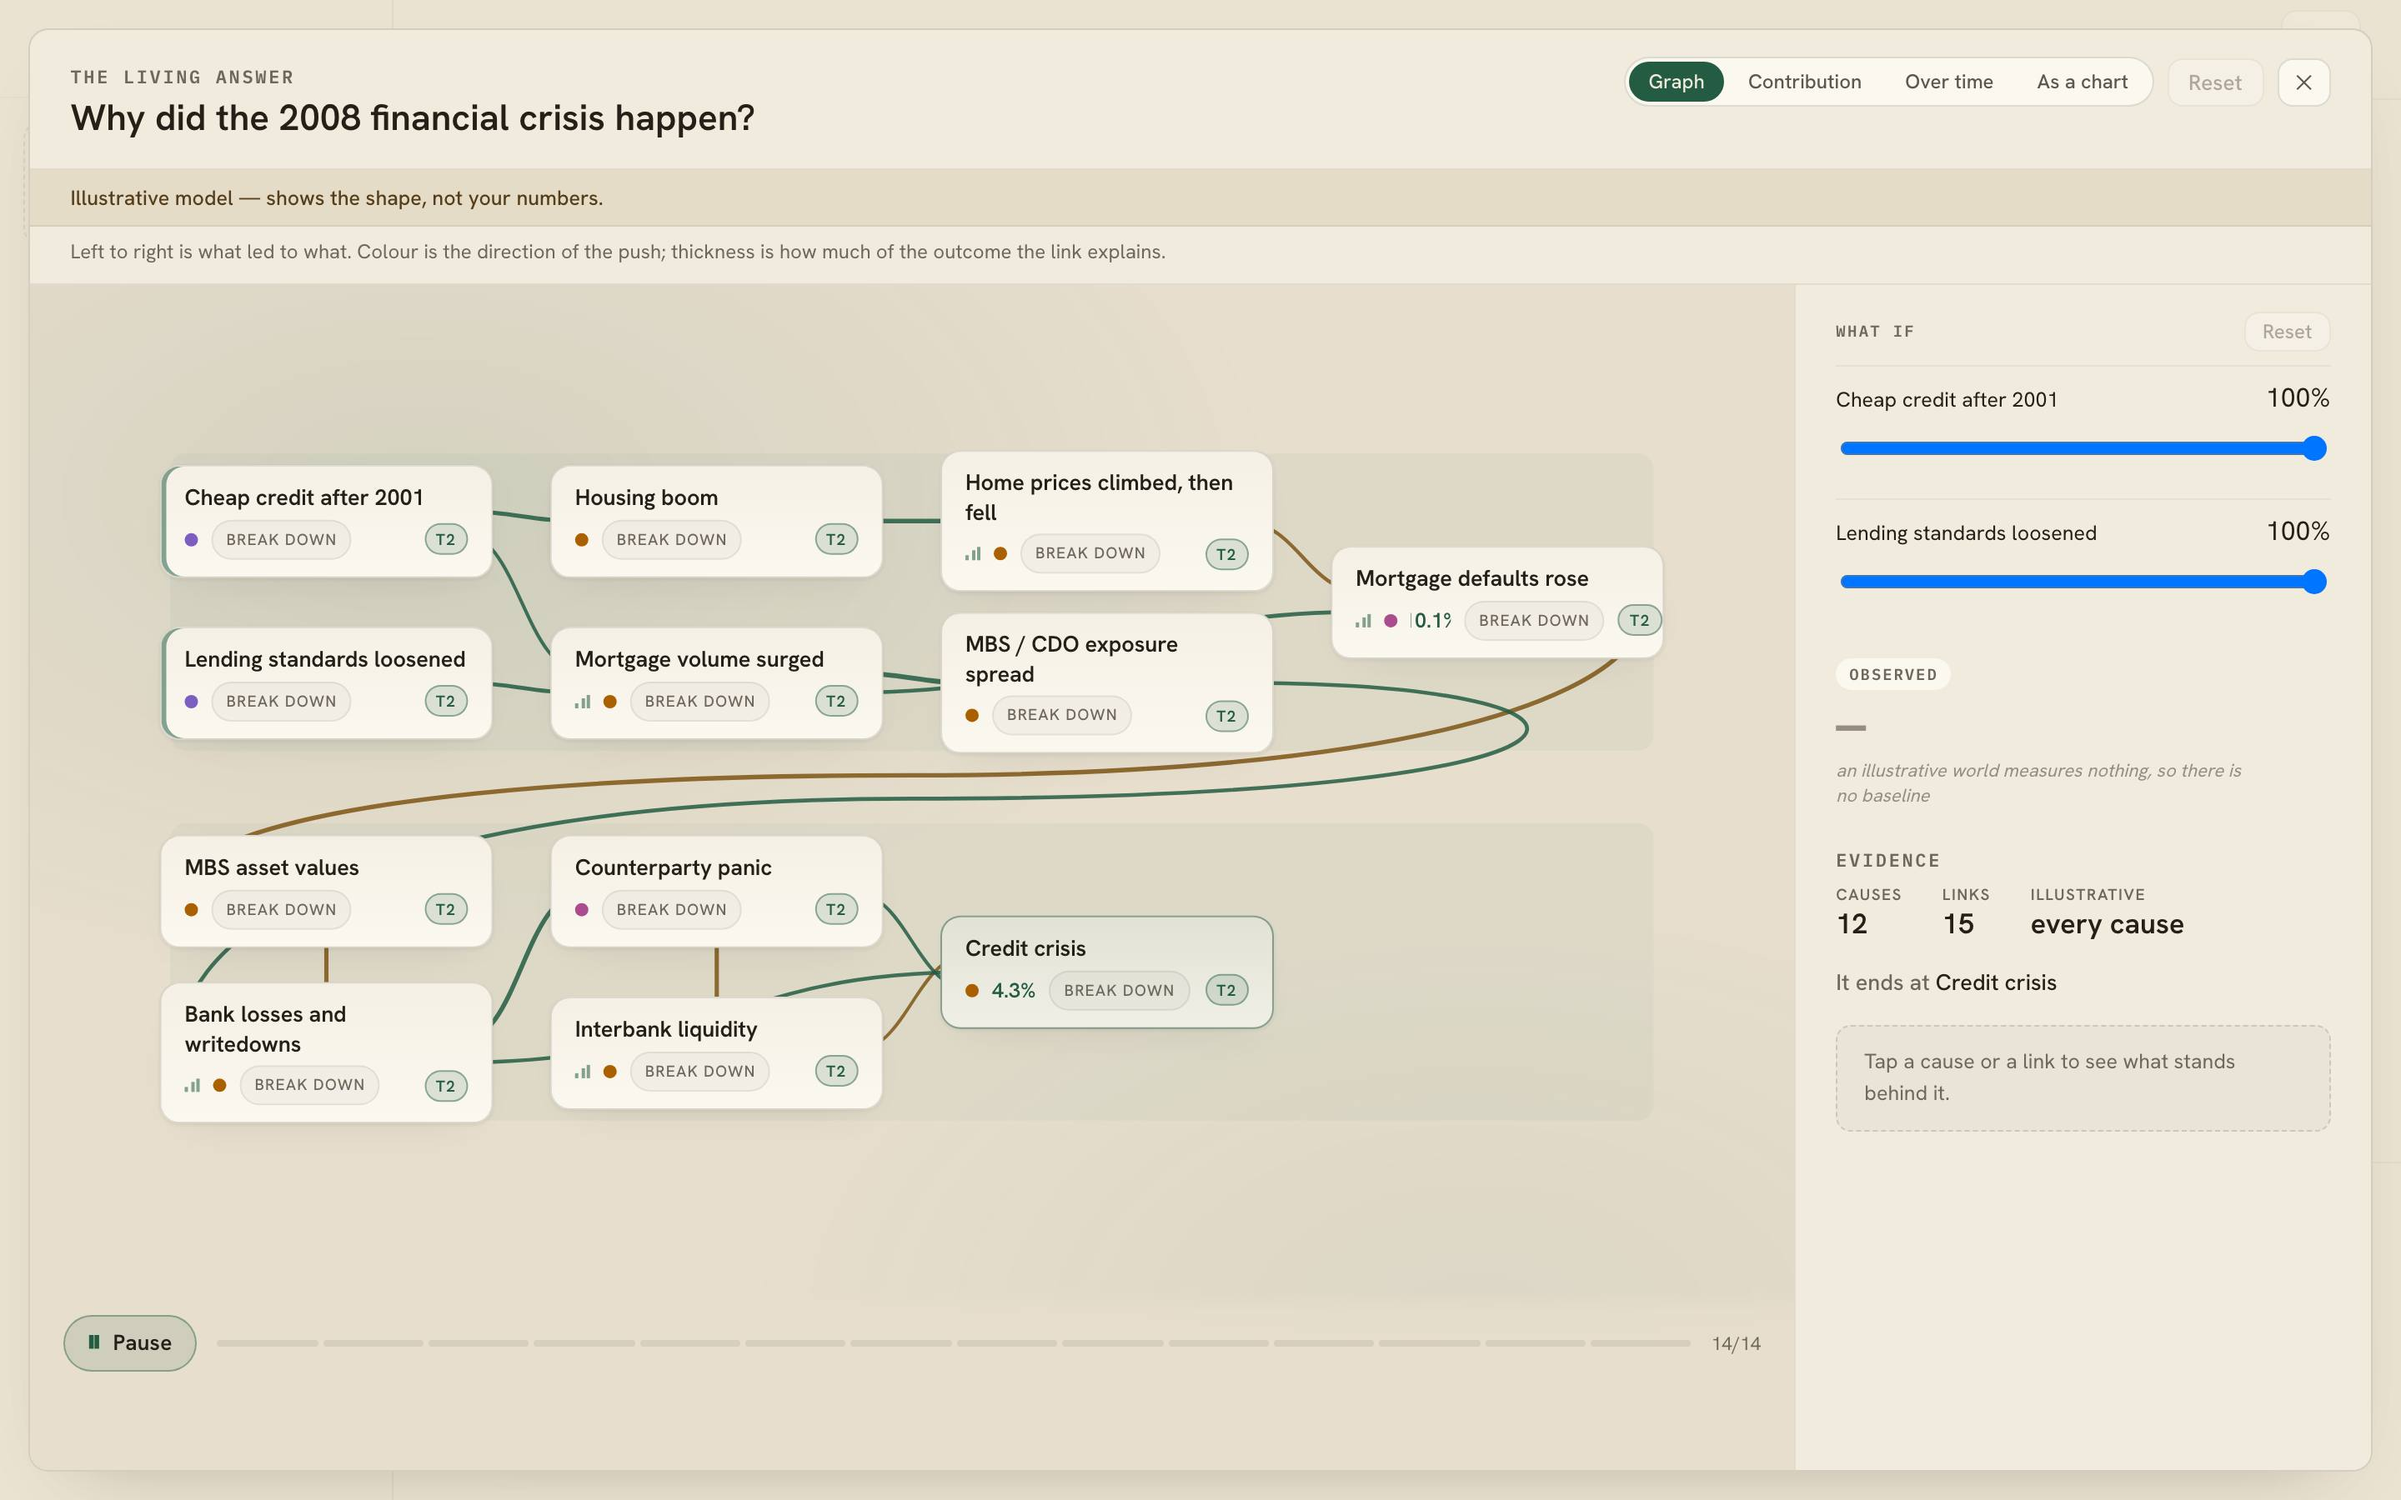
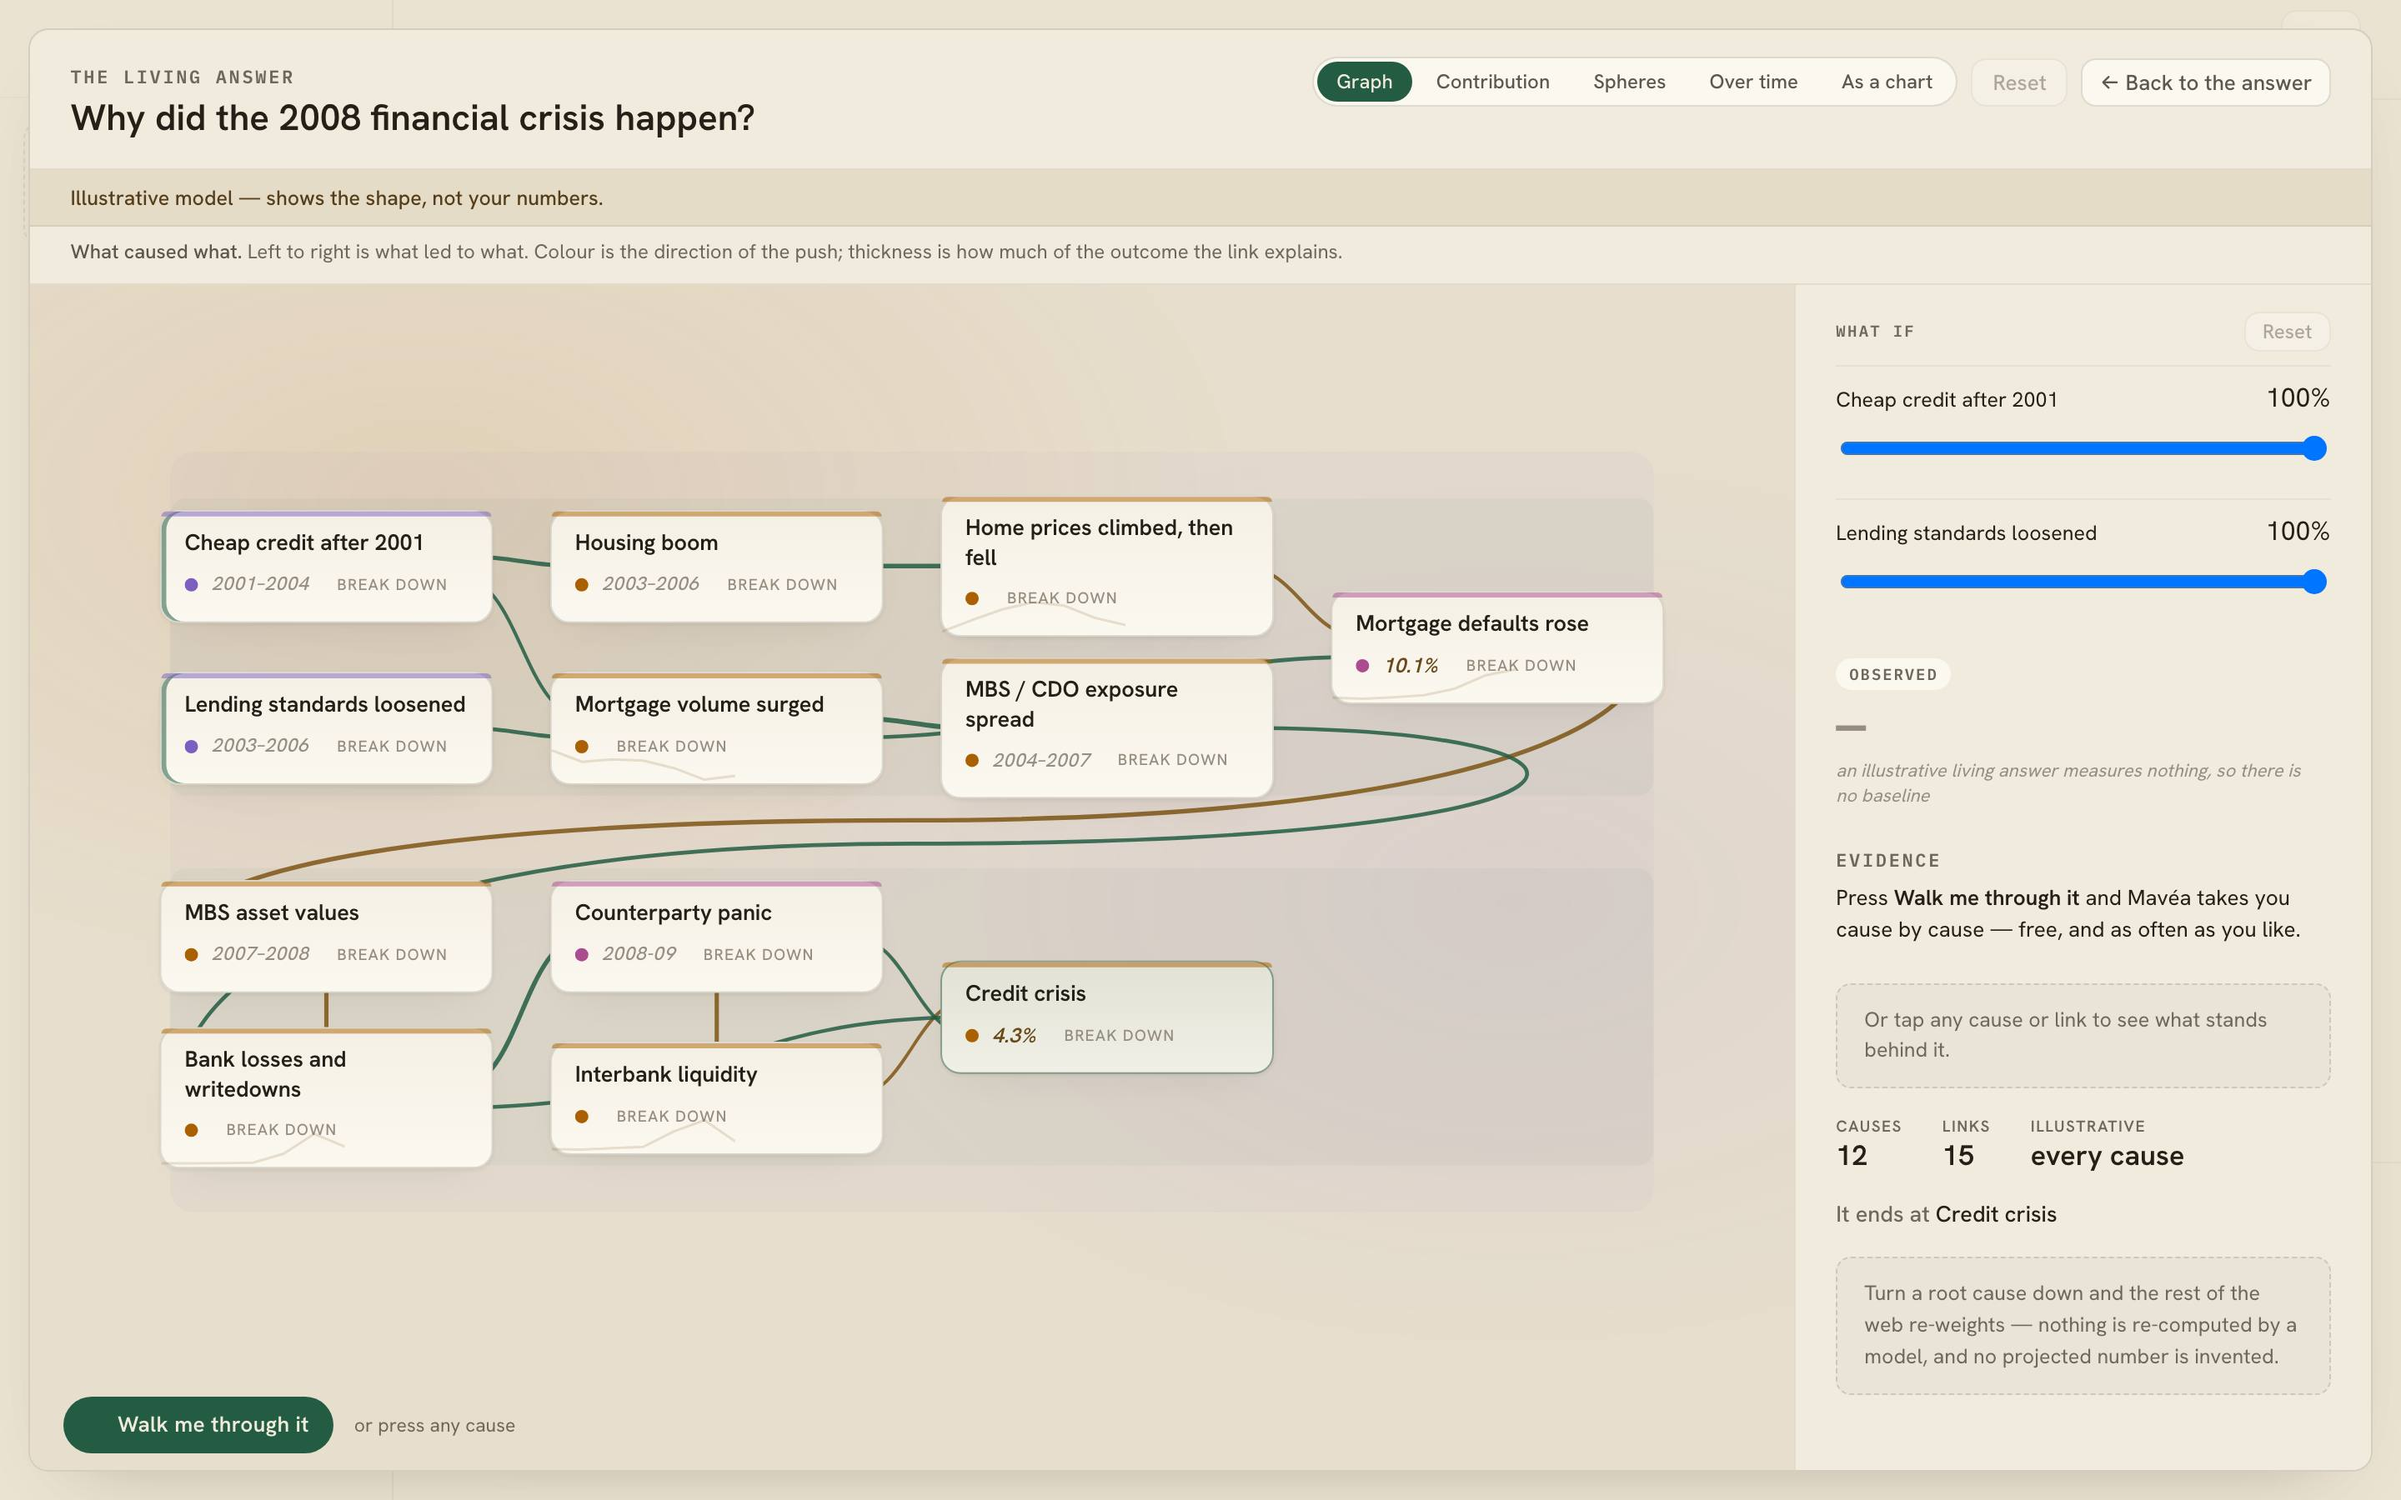
docs(readme): reshoot the living answer, and show the front door
The living answer shot advertised four readings on the release that adds the
fifth — and it was caught three beats into the walk, so the camera was still
zoomed onto one card and four of twelve causes were in frame. Its 6s settle was
the cause; waiting it out on the chapter's own clock overshoots the other way,
onto the end card. The capture script now HOLDS the chapter and waits on the
world's own transport instead, then puts the frame back on the causal web the
caption is about. The rest of the strip was checked against what actually
changed since it was taken and is still accurate.

The Go hub gets a tile, because it is the release's most visible addition and
nothing in the strip showed it. Setup is marked done (a bare "1" — no key,
nothing secret) so the wizard opens on its GO step, which is where the launcher
lives; with no key configured, the shot is what a first-run reader sees.

diff --git a/README.md b/README.md
@@ -120,10 +120,16 @@ Twelve moments from the walkthrough and the recorded sessions. Every one replays
     <td width="25%" valign="top"><img width="168" src="docs/media/doc-prism.jpg" alt="A NASA technical report read claim by claim, each finding highlighted on the real scanned page" /><br /><sub><b>A document, claim by claim.</b> Every finding highlighted on the real page it came from.</sub></td>
   </tr>
   <tr>
+    <td width="25%" valign="top"><img width="168" src="docs/media/go-hub.jpg" alt="A new conversation offering Prism, Just listen, Watch me think and Deep Zoom as ways to begin, beside the model and voice already set up" /><br /><sub><b>Start anywhere.</b> A new conversation offers every mode as a way in — no need to ask a question first.</sub></td>
     <td width="25%" valign="top"><img width="168" src="docs/media/trip-plan.jpg" alt="A day trip drawn as a route map with numbered stops beside an hour-by-hour plan" /><br /><sub><b>It picks the right form.</b> A route becomes a map; a day becomes an hour-by-hour plan.</sub></td>
     <td width="25%" valign="top"><img width="168" src="docs/media/repo-course.jpg" alt="A GitHub repository turned into a beginner-to-expert curriculum with lessons, files to read and a checkpoint" /><br /><sub><b>A repository, taught.</b> Beginner to expert, built from the code, with real files.</sub></td>
     <td width="25%" valign="top"><img width="168" src="docs/media/deck-export.jpg" alt="The export studio previewing a generated slide, with PDF and PPTX downloads" /><br /><sub><b>Out as a deck.</b> Ten skins, a live preview, PDF or PowerPoint.</sub></td>
+  </tr>
+  <tr>
     <td width="25%" valign="top"><img width="168" src="docs/media/doc-export.jpg" alt="The export studio previewing a generated document page in an editorial template" /><br /><sub><b>Or as a document.</b> The same answer set as a paper, ready to print or send.</sub></td>
+    <td width="25%"></td>
+    <td width="25%"></td>
+    <td width="25%"></td>
   </tr>
 </table>
 
